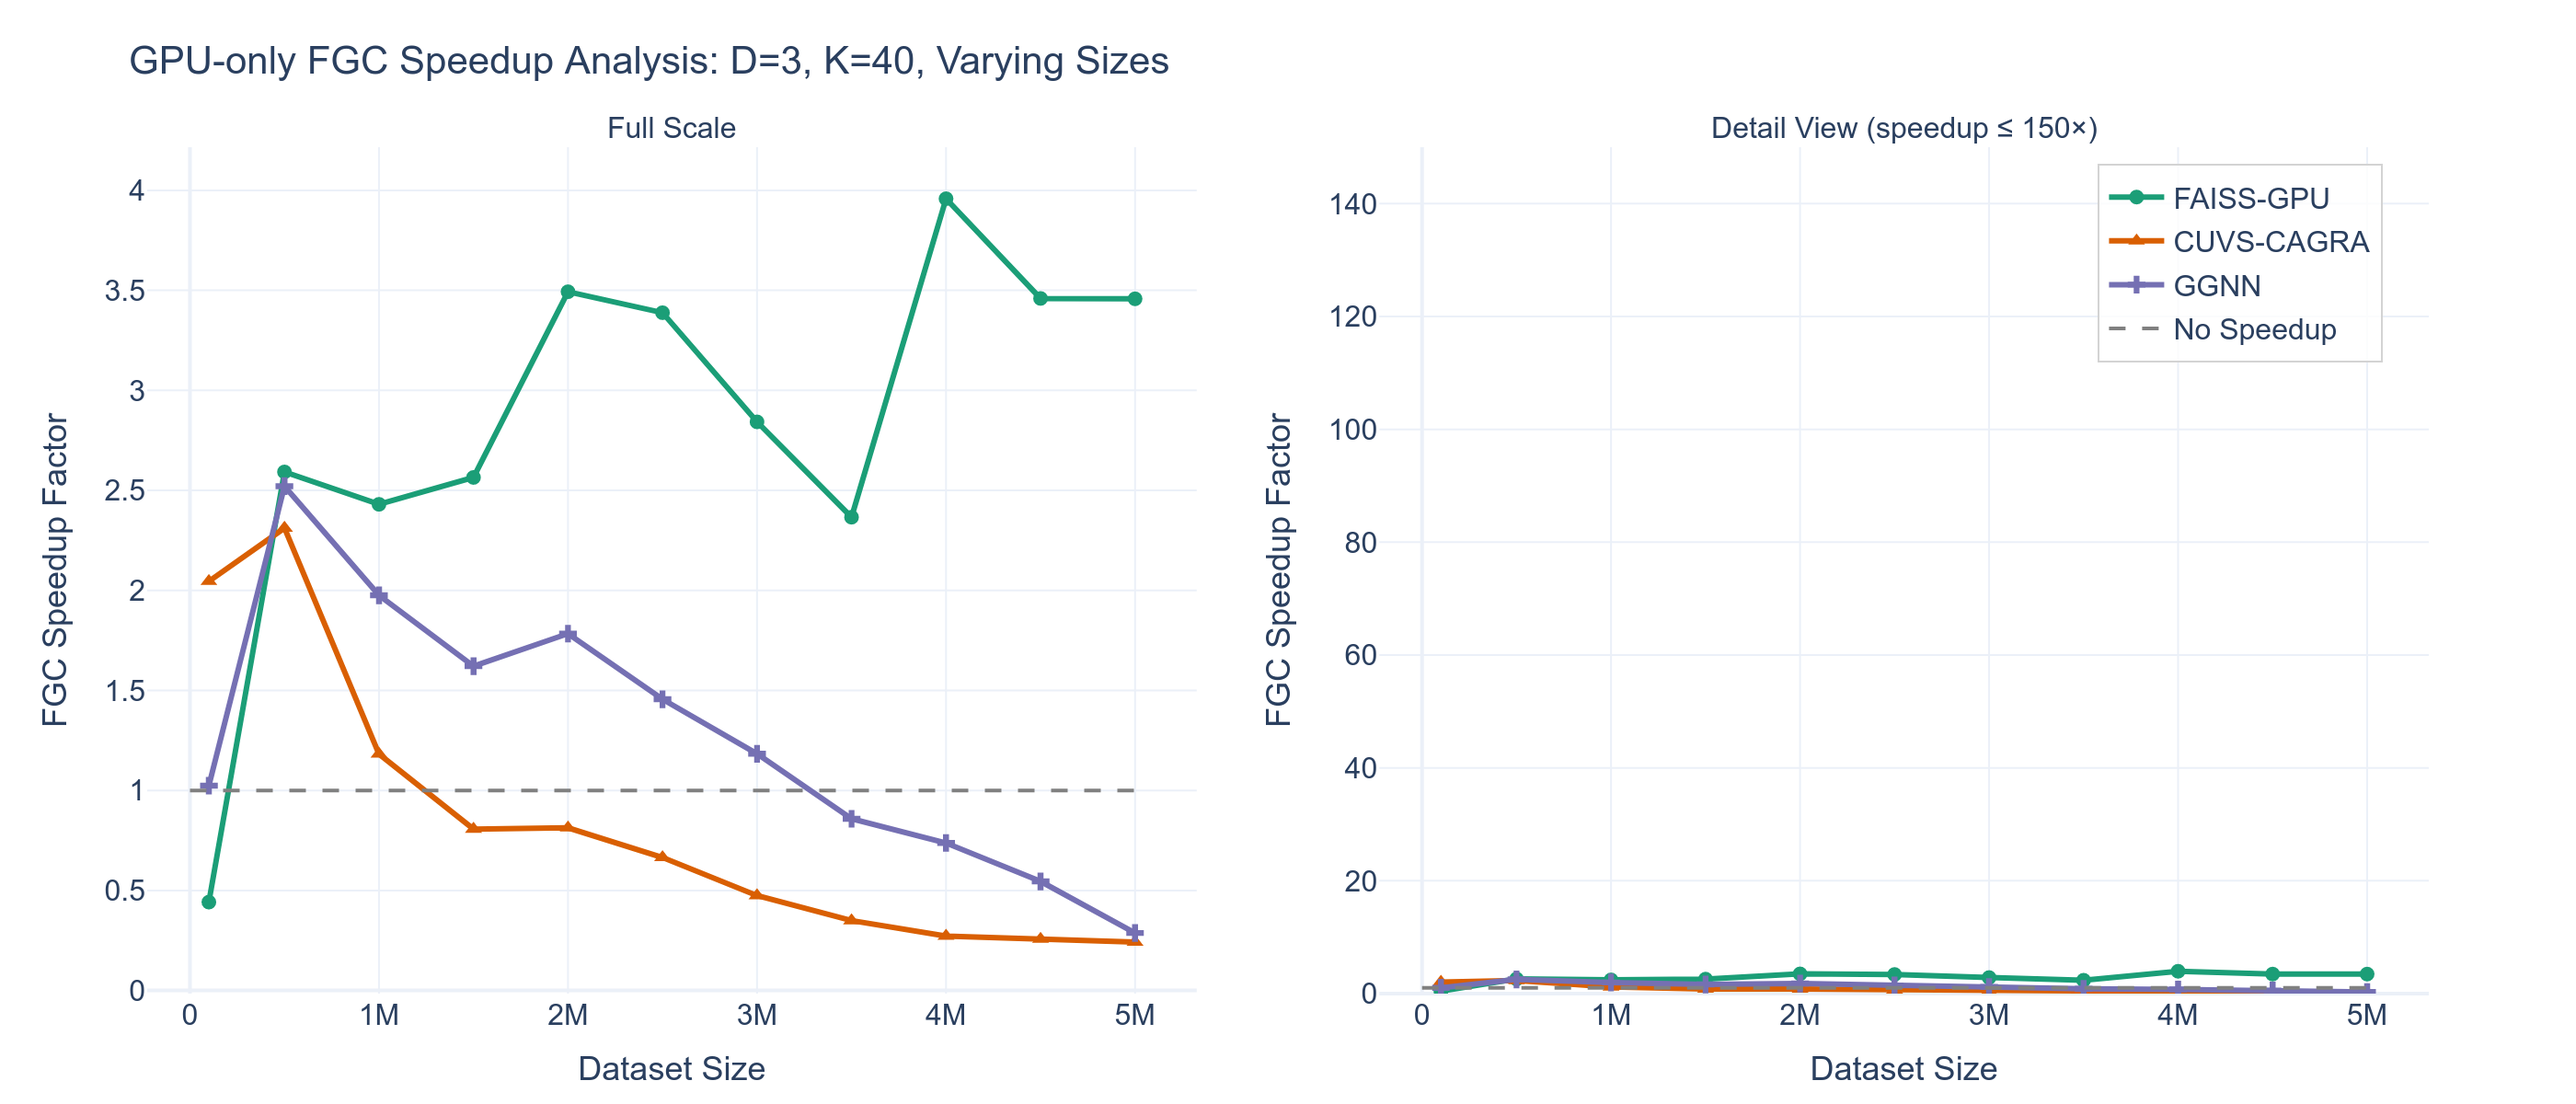
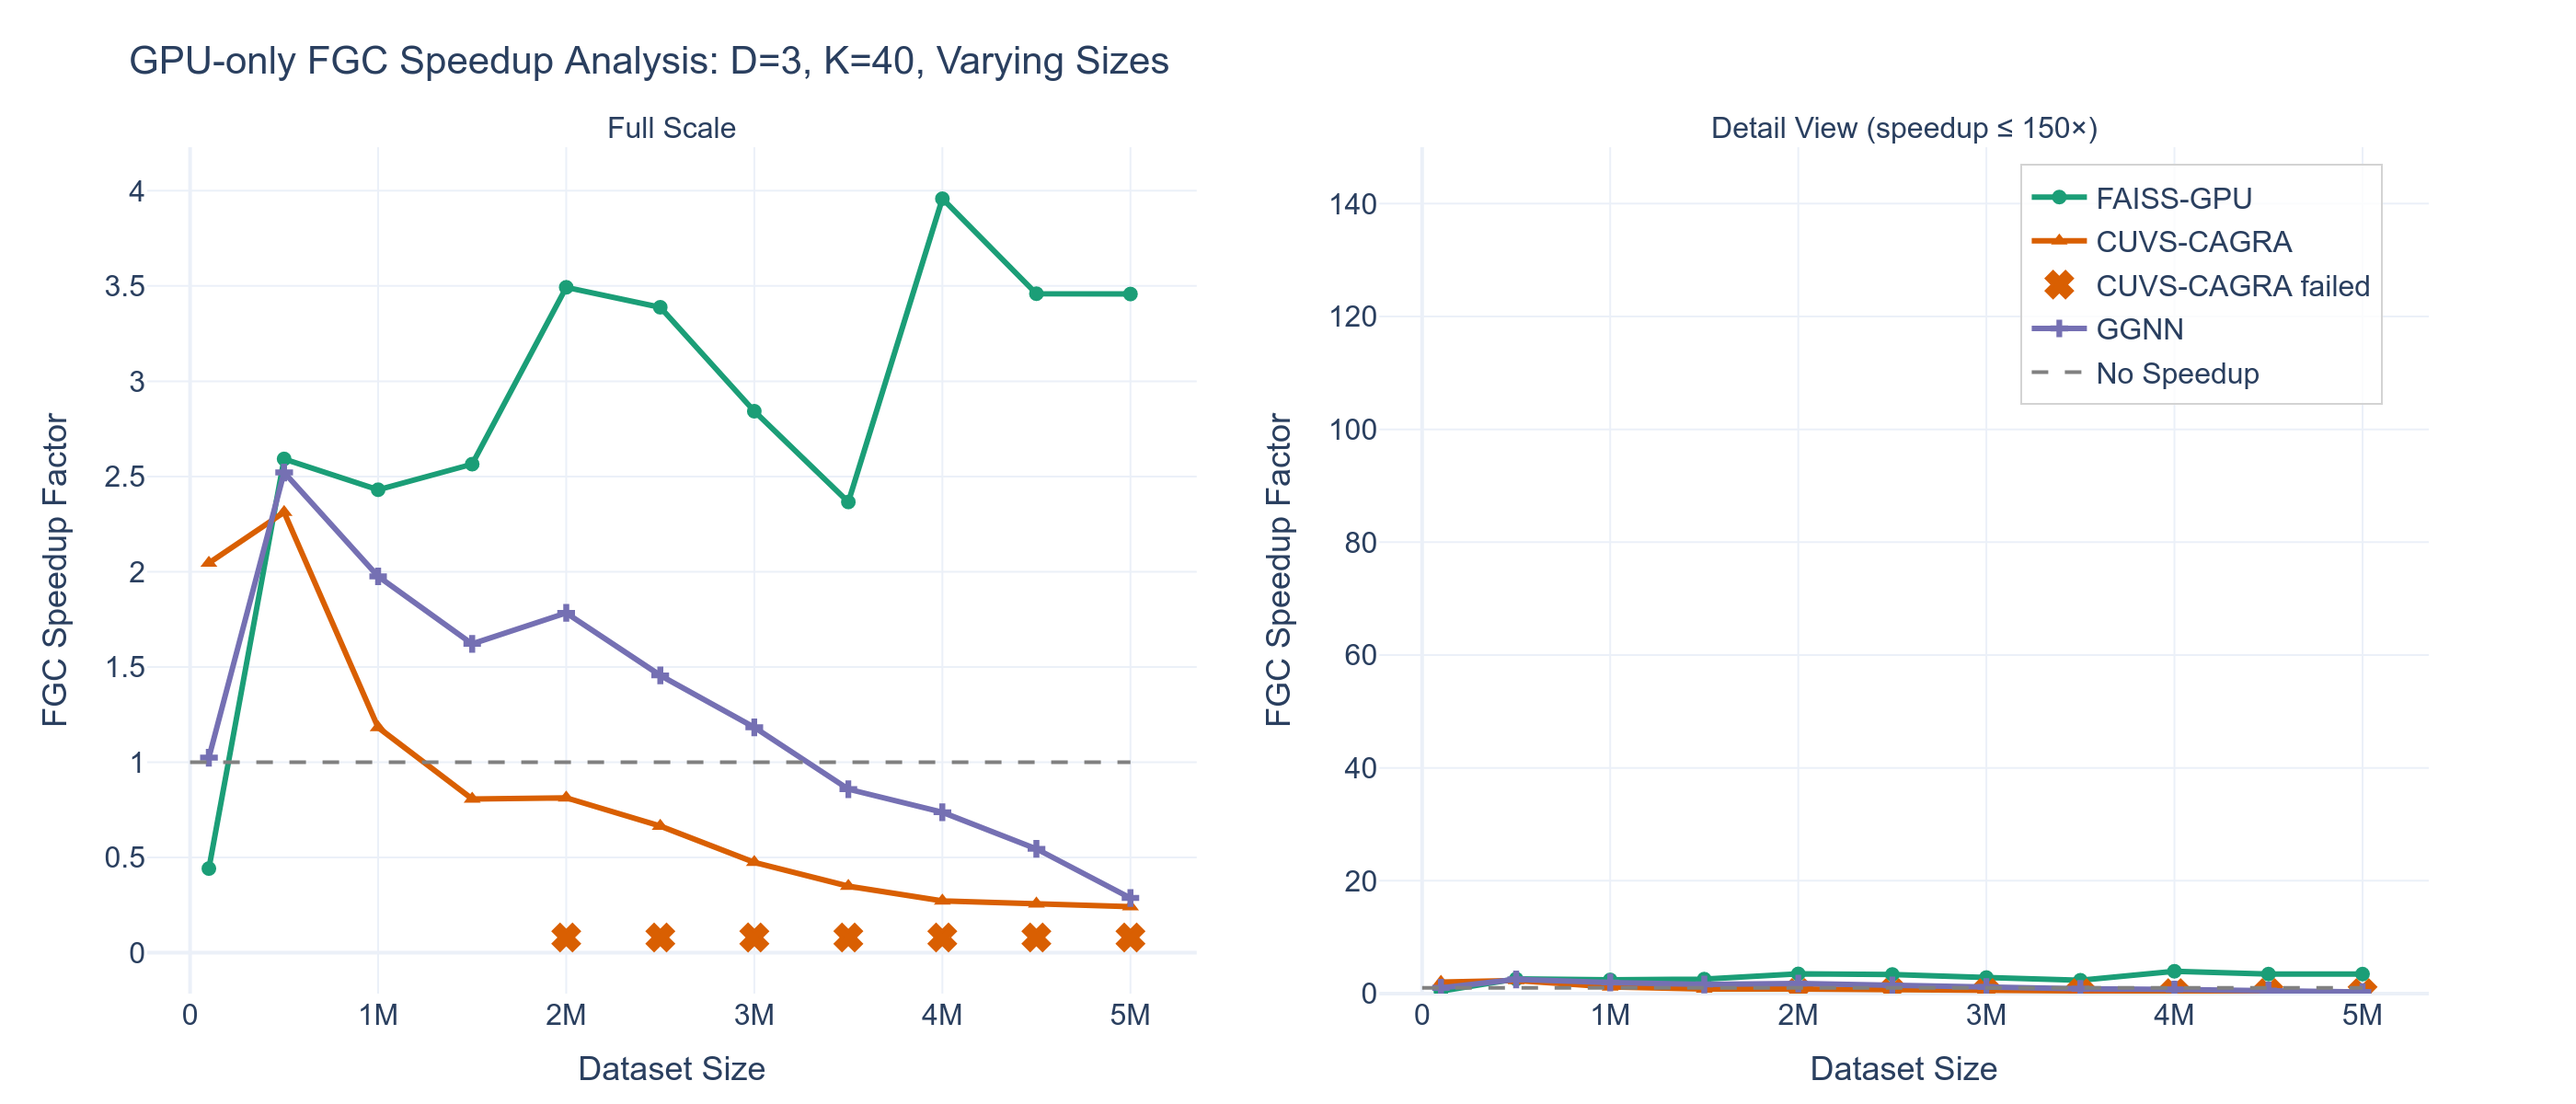
process_gpu_csvs: fix FAISS recall artifact; update plots and run sweep
- Force recall=1.0 for exact methods (FGC, FAISS) in plot_recall_controlled_speed() to eliminate float-precision artifact (was showing 0.201 at d=5 due to BLAS vs element-wise distance mismatch)
- Add 1M-point k-comparison sweep (k=10,40,100) across all dims in generate_runs_files.py
- Updated plot PNGs: dimensional scaling, k-comparison, speedup d3/d5, speedup d3-vs-d5

diff --git a/process_gpu_csvs.py b/process_gpu_csvs.py
@@ -99,6 +99,29 @@ def _load_gpu_file(file_name: str) -> pd.DataFrame:
     return df
 
 
+def _load_gpu_errors(file_name: str) -> pd.DataFrame:
+    """Load unique error-status rows for a GPU benchmark file."""
+    path = os.path.join(GPU_DATA_DIR, file_name)
+    if not os.path.exists(path):
+        return pd.DataFrame()
+
+    df = pd.read_csv(path)
+    df = _standardize_gpu_df(df)
+    if "status" not in df.columns:
+        return pd.DataFrame()
+
+    errors = df[df["status"] == "error"].copy()
+    if errors.empty:
+        return errors
+
+    return (
+        errors[["dimension", "size", "k", "status"]]
+        .dropna(subset=["dimension", "size", "k"])
+        .drop_duplicates()
+        .sort_values(["dimension", "size", "k"])
+    )
+
+
 def load_and_prepare_gpu_data() -> pd.DataFrame:
     print("Loading GPU performance data...")
 
@@ -228,6 +251,54 @@ def plot_fgc_speedup_analysis(
                 ),
             )
         )
+
+        error_data = _load_gpu_errors(alg_info["file_name"])
+        if not error_data.empty:
+            if analysis_type == "dimensions":
+                error_data = error_data[
+                    (error_data["size"] == size)
+                    & (error_data["k"] == k)
+                    & (error_data["dimension"] <= max_dimensions)
+                ].copy()
+            else:
+                error_data = error_data[
+                    (error_data["dimension"] == dimension)
+                    & (error_data["k"] == k)
+                    & (error_data["size"] <= MAX_DATASET_SIZE)
+                    & (error_data["size"].isin(allowed_sizes))
+                ].copy()
+
+            if not error_data.empty:
+                marker_y = 0.08 if not log_y else 0.12
+                failed = (
+                    error_data.groupby(x_col)
+                    .size()
+                    .reset_index(name="failed_runs")
+                    .sort_values(x_col)
+                )
+                fig.add_trace(
+                    go.Scatter(
+                        x=failed[x_col],
+                        y=[marker_y] * len(failed),
+                        mode="markers",
+                        name=f"{alg_info['display_name']} failed",
+                        marker=dict(
+                            color=alg_info["color"],
+                            size=12,
+                            symbol="x",
+                            line=dict(color=alg_info["color"], width=2),
+                        ),
+                        showlegend=True,
+                        hovertemplate=(
+                            f"<b>{alg_info['display_name']} failed</b><br>"
+                            f"{x_title}: %{{x}}<br>"
+                            "Failed repeated runs: %{customdata}<br>"
+                            "No speedup shown because the benchmark returned error status."
+                            "<extra></extra>"
+                        ),
+                        customdata=failed["failed_runs"],
+                    )
+                )
 
     fig.add_trace(
         go.Scatter(
@@ -530,14 +601,14 @@ def plot_k_comparison_dimensional_analysis(data: pd.DataFrame) -> go.Figure:
         legend=dict(
             orientation="v",
             yanchor="top",
-            y=0.98,
-            xanchor="right",
-            x=0.98,
+            y=1.0,
+            xanchor="left",
+            x=1.01,
             bgcolor="rgba(255,255,255,0.8)",
             bordercolor="lightgray",
             borderwidth=1,
         ),
-        margin=dict(t=80, b=60, l=80, r=80),
+        margin=dict(t=80, b=60, l=80, r=260),
     )
     return fig
 
@@ -693,8 +764,10 @@ def plot_recall_controlled_speed(
                 continue
 
             if backend in ("fgc", "faiss"):
-                # Exact methods — always qualify
-                qualified = sub
+                # Exact methods — always qualify; force recall=1.0 to avoid
+                # float-precision artifacts in the recall_dist measurement
+                qualified = sub.copy()
+                qualified["recall"] = 1.0
             elif backend == "cuvs":
                 # Find cheapest itopk_size achieving target recall
                 param_col = "itopk_size"

diff --git a/generate_runs_files.py b/generate_runs_files.py
@@ -64,7 +64,11 @@ def build_combinations() -> List[Tuple[int, int, int]]:
     for k in (10, 40, 100):
         add_combos(combos, seen, ((3, p, k) for p in points))
 
-    # 4) dim in [2..15], points=5M, k=40
+    # 4) Full 1M dimensional sweep for the k-comparison plot
+    for k in (10, 40, 100):
+        add_combos(combos, seen, ((d, 1_000_000, k) for d in range(2, 11)))
+
+    # 5) dim in [2..15], points=5M, k=40
     add_combos(combos, seen, ((d, 5_000_000, 40) for d in range(2, 16)))
 
     return combos
